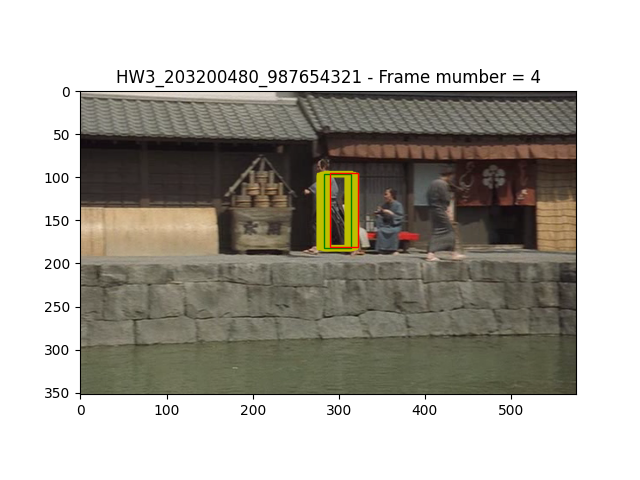
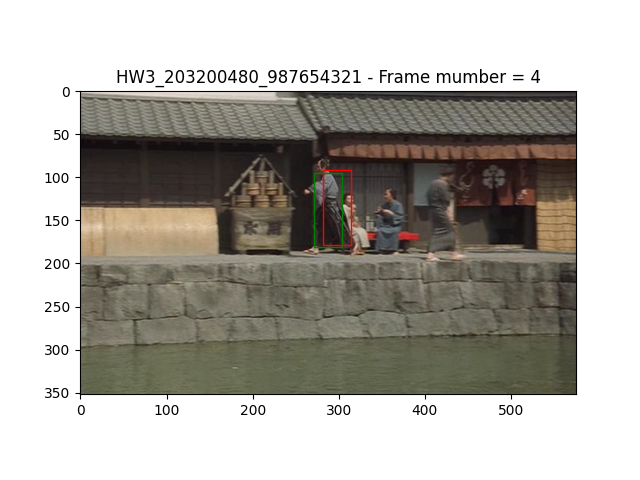
found a small error

Changed region(s): [[0.4688, 0.3438, 0.5625, 0.5312]]

diff --git a/particle_filter.py b/particle_filter.py
@@ -29,10 +29,6 @@ s_initial = [297,    # x center
                0]    # velocity y
 
 
-sigma_x =5
-sigma_y =1.5
-sigma_vx =0
-sigma_vy =0
 
 def predict_particles(s_prior: np.ndarray) -> np.ndarray:
     """Progress the prior state with time and add noise.
@@ -49,6 +45,11 @@ def predict_particles(s_prior: np.ndarray) -> np.ndarray:
     state_drifted = s_prior
     """ DELETE THE LINE ABOVE AND:
     INSERT YOUR CODE HERE."""
+    sigma_x =5
+    sigma_y =1.5
+    sigma_vx =0.5
+    sigma_vy =0.2
+
     #first we applay the motion
     state_drifted[:2, :] = state_drifted[:2, :] + state_drifted[4:, :]
 
@@ -211,7 +212,7 @@ def show_particles(image: np.ndarray, state: np.ndarray, W: np.ndarray, frame_in
        # ax.add_patch(rect)
         x_avg += partical[0]* W[index]
         y_avg += partical[1]* W[index]
-    x_avg = x_avg - w_avg/2
+    x_avg = x_avg - w_avg
     y_avg -= h_avg/2
     rect = patches.Rectangle((x_avg, y_avg), w_avg, h_avg, linewidth=1, edgecolor='g', facecolor='none')
     ax.add_patch(rect)
@@ -222,7 +223,7 @@ def show_particles(image: np.ndarray, state: np.ndarray, W: np.ndarray, frame_in
         INSERT YOUR CODE HERE."""
     (x_max, y_max, w_max, h_max) = (0, 0, state[2][0]*2, state[3][0]*2)
     x_max , y_max,_,_,_,_= state.T[np.argmax(W)]
-    x_max = x_max - w_max/2
+    x_max = x_max - w_max
     y_max -= h_max/2
     rect = patches.Rectangle((x_max, y_max), w_max, h_max, linewidth=1, edgecolor='r', facecolor='none')
     ax.add_patch(rect)
